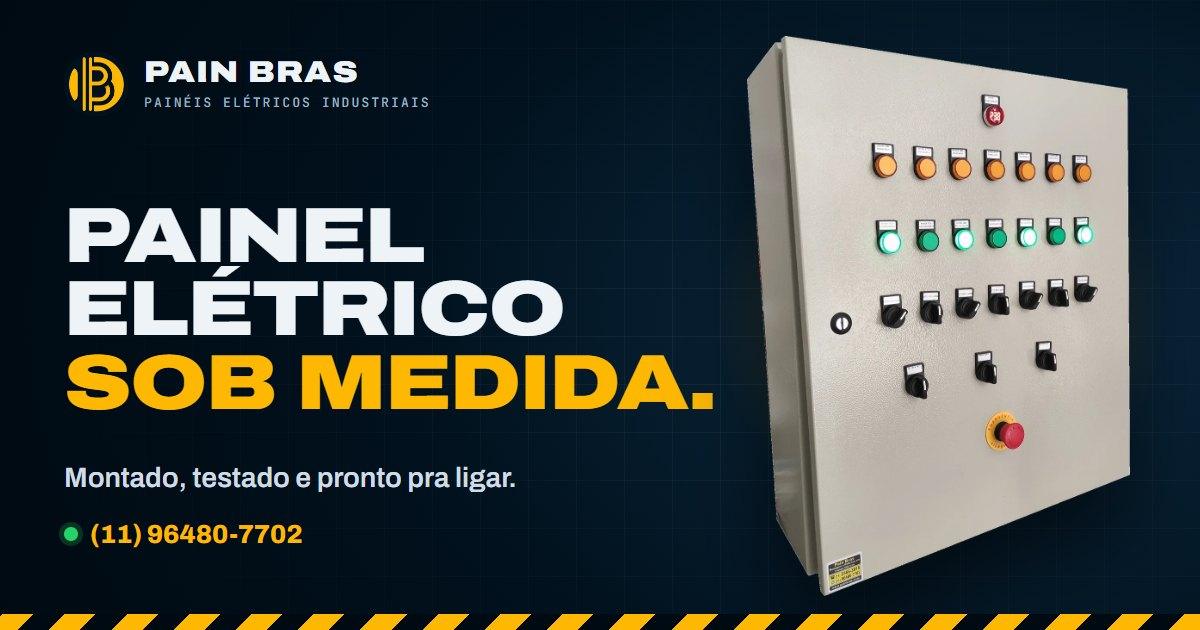
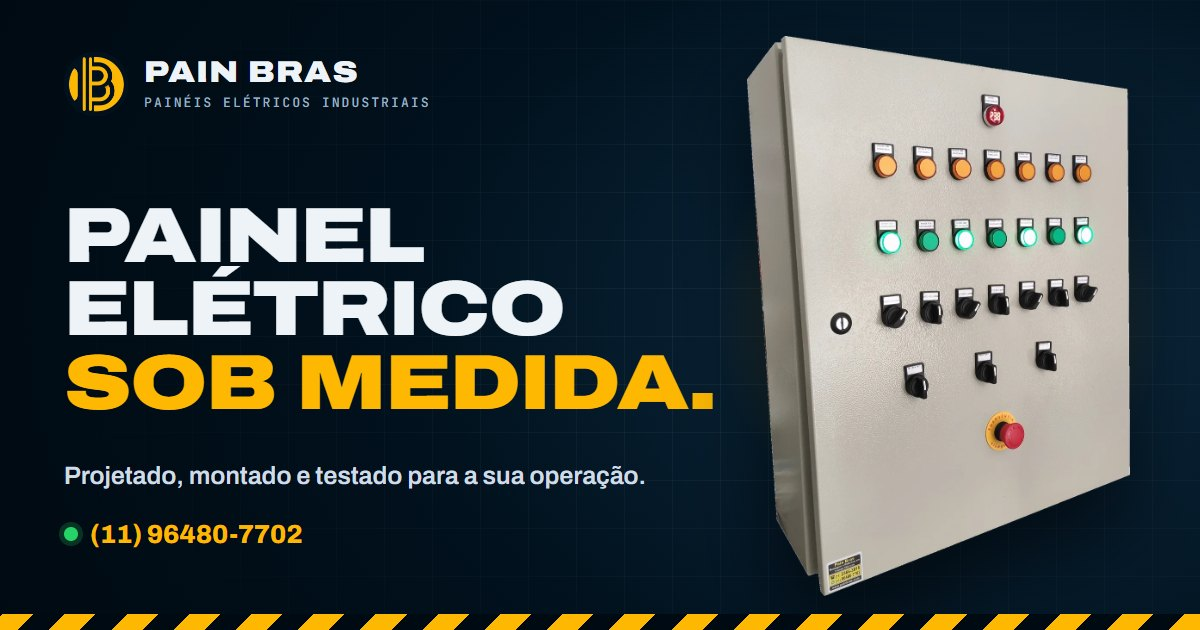
copy: textos em tom mais formal (B2B), a pedido do cliente
Reescreve titulos, descricoes, botoes e mensagens de WhatsApp.
Ajusta tamanho de botao e titulo no celular para os textos mais longos caberem.

Changed region(s): [[0.0308, 0.7238, 0.5242, 0.7841]]

diff --git a/index.html b/index.html
@@ -7,7 +7,7 @@
 <meta name="description" content="Pain Bras: montagem e reforma de painéis elétricos para indústria, condomínio, irrigação e sistemas de incêndio. Orçamento sem compromisso pelo WhatsApp.">
 <meta name="theme-color" content="#01111d">
 <meta property="og:title" content="Pain Bras | Painéis Elétricos Industriais">
-<meta property="og:description" content="Painel elétrico sob medida. Montado, testado e pronto pra ligar. Peça seu orçamento pelo WhatsApp.">
+<meta property="og:description" content="Painéis elétricos sob medida, projetados, montados e testados para a sua operação. Solicite um orçamento pelo WhatsApp.">
 <meta property="og:type" content="website">
 <meta property="og:image" content="https://painbras.vercel.app/assets/img/og.jpg">
 <meta property="og:image:width" content="1200">
@@ -91,12 +91,12 @@
         <span class="line"><span>elétrico</span></span>
         <span class="line"><span class="y">sob medida.</span></span>
       </h1>
-      <p class="hero__sub" data-reveal style="--d:.35s">Para fábrica, condomínio e irrigação.<br><b>Montado, testado e pronto pra ligar.</b></p>
+      <p class="hero__sub" data-reveal style="--d:.35s">Para indústrias, condomínios e irrigação.<br><b>Projetado, montado e testado para a sua operação.</b></p>
 
       <div class="hero__cta" data-reveal style="--d:.45s">
         <a class="btn btn--main magnetic" data-wa href="https://wa.me/5511964807702">
           <span class="btn__wa"><svg class="ico"><use href="#i-wa"/></svg></span>
-          <span>Pedir orçamento</span>
+          <span>Solicitar orçamento</span>
           <svg class="ico ico--arrow"><use href="#i-arrow"/></svg>
         </a>
         <a class="btn btn--ghost" href="assets/catalogo-painbras.pdf" target="_blank" rel="noopener">
@@ -125,8 +125,8 @@
 </section>
 
 <!-- ============ MARCAS ============ -->
-<section class="brands" aria-label="Marcas que usamos">
-  <p class="brands__label">Só usamos <b>marca boa</b></p>
+<section class="brands" aria-label="Marcas com que trabalhamos">
+  <p class="brands__label">Trabalhamos com as <b>melhores marcas nacionais</b></p>
   <div class="marquee">
     <div class="marquee__track">
       <img src="assets/img/marcas/weg.png" alt="WEG" height="46" loading="lazy">
@@ -145,8 +145,8 @@
   <div class="wrap">
     <header class="sec__head" data-reveal>
       <p class="tag">01 — Painéis</p>
-      <h2>Qual painel <span class="y">você precisa?</span></h2>
-      <p class="sec__sub">Toque no nome e veja.</p>
+      <h2>Soluções em <span class="y">painéis elétricos.</span></h2>
+      <p class="sec__sub">Selecione um modelo para ver os detalhes.</p>
     </header>
 
     <div class="pick" data-reveal>
@@ -165,9 +165,9 @@
           <div class="pane__txt">
             <p class="pane__kicker">Motores acima de 7,5 CV</p>
             <h3>Partida Estrela-Triângulo</h3>
-            <p class="pane__lead">Liga motor grande <b>sem dar tranco</b> na rede.</p>
+            <p class="pane__lead">Reduz a corrente de partida de motores trifásicos, <b>preservando a rede elétrica</b>.</p>
             <ul class="pills"><li>Compressor</li><li>Moinho</li><li>Aglutinador</li><li>Bomba de irrigação</li></ul>
-            <a class="btn btn--main" data-wa="Olá! Vim pelo site e quero orçamento de um Painel de Partida Estrela-Triângulo." href="https://wa.me/5511964807702"><span class="btn__wa"><svg class="ico"><use href="#i-wa"/></svg></span><span>Quero esse</span><svg class="ico ico--arrow"><use href="#i-arrow"/></svg></a>
+            <a class="btn btn--main" data-wa="Olá! Vim pelo site e gostaria de um orçamento de Painel de Partida Estrela-Triângulo." href="https://wa.me/5511964807702"><span class="btn__wa"><svg class="ico"><use href="#i-wa"/></svg></span><span>Solicitar orçamento</span><svg class="ico ico--arrow"><use href="#i-arrow"/></svg></a>
           </div>
         </article>
 
@@ -176,9 +176,9 @@
           <div class="pane__txt">
             <p class="pane__kicker">Partida suave</p>
             <h3>Inversor de Frequência</h3>
-            <p class="pane__lead">Você <b>controla a velocidade</b> do motor e gasta menos energia.</p>
+            <p class="pane__lead"><b>Controle de velocidade e torque</b> do motor, com operação mais eficiente e econômica.</p>
             <ul class="pills"><li>Esteira</li><li>Ventilador</li><li>Exaustor</li><li>Picotador</li></ul>
-            <a class="btn btn--main" data-wa="Olá! Vim pelo site e quero orçamento de um Painel com Inversor de Frequência." href="https://wa.me/5511964807702"><span class="btn__wa"><svg class="ico"><use href="#i-wa"/></svg></span><span>Quero esse</span><svg class="ico ico--arrow"><use href="#i-arrow"/></svg></a>
+            <a class="btn btn--main" data-wa="Olá! Vim pelo site e gostaria de um orçamento de Painel com Inversor de Frequência." href="https://wa.me/5511964807702"><span class="btn__wa"><svg class="ico"><use href="#i-wa"/></svg></span><span>Solicitar orçamento</span><svg class="ico ico--arrow"><use href="#i-arrow"/></svg></a>
           </div>
         </article>
 
@@ -187,9 +187,9 @@
           <div class="pane__txt">
             <p class="pane__kicker">Revezamento automático</p>
             <h3>Bombas de Água</h3>
-            <p class="pane__lead">As bombas <b>revezam sozinhas</b> e o motor fica protegido.</p>
+            <p class="pane__lead">Alternância automática entre as bombas e <b>proteção completa das motobombas</b>.</p>
             <ul class="pills"><li>Condomínio</li><li>Poço artesiano</li><li>Cisterna</li><li>Irrigação</li></ul>
-            <a class="btn btn--main" data-wa="Olá! Vim pelo site e quero orçamento de um Painel para Bombas de Água." href="https://wa.me/5511964807702"><span class="btn__wa"><svg class="ico"><use href="#i-wa"/></svg></span><span>Quero esse</span><svg class="ico ico--arrow"><use href="#i-arrow"/></svg></a>
+            <a class="btn btn--main" data-wa="Olá! Vim pelo site e gostaria de um orçamento de Painel para Bombas de Água." href="https://wa.me/5511964807702"><span class="btn__wa"><svg class="ico"><use href="#i-wa"/></svg></span><span>Solicitar orçamento</span><svg class="ico ico--arrow"><use href="#i-arrow"/></svg></a>
           </div>
         </article>
 
@@ -198,9 +198,9 @@
           <div class="pane__txt">
             <p class="pane__kicker">Norma NBR 13714</p>
             <h3>Sistema de Incêndio</h3>
-            <p class="pane__lead">Dentro da norma exigida pelo <b>Corpo de Bombeiros</b>.</p>
-            <ul class="pills"><li>Bomba jockey</li><li>Automático e manual</li><li>Adequação de sistema antigo</li></ul>
-            <a class="btn btn--main" data-wa="Olá! Vim pelo site e quero orçamento de um Painel para Sistema de Incêndio." href="https://wa.me/5511964807702"><span class="btn__wa"><svg class="ico"><use href="#i-wa"/></svg></span><span>Quero esse</span><svg class="ico ico--arrow"><use href="#i-arrow"/></svg></a>
+            <p class="pane__lead">Painel de comando exclusivo, em conformidade com as exigências do <b>Corpo de Bombeiros</b>.</p>
+            <ul class="pills"><li>Bomba jockey</li><li>Automático e manual</li><li>Adequação de sistemas antigos</li></ul>
+            <a class="btn btn--main" data-wa="Olá! Vim pelo site e gostaria de um orçamento de Painel para Sistema de Incêndio." href="https://wa.me/5511964807702"><span class="btn__wa"><svg class="ico"><use href="#i-wa"/></svg></span><span>Solicitar orçamento</span><svg class="ico ico--arrow"><use href="#i-arrow"/></svg></a>
           </div>
         </article>
 
@@ -209,26 +209,26 @@
           <div class="pane__txt">
             <p class="pane__kicker">Com ou sem CLP</p>
             <h3>Elevador de Carga</h3>
-            <p class="pane__lead">Sua carga sobe e desce <b>com segurança</b>, sem parar a operação.</p>
-            <ul class="pills"><li>Alarmes</li><li>Botão de emergência</li><li>Instalação rápida</li></ul>
-            <a class="btn btn--main" data-wa="Olá! Vim pelo site e quero orçamento de um Painel para Elevador de Carga." href="https://wa.me/5511964807702"><span class="btn__wa"><svg class="ico"><use href="#i-wa"/></svg></span><span>Quero esse</span><svg class="ico ico--arrow"><use href="#i-arrow"/></svg></a>
+            <p class="pane__lead">Transporte de cargas <b>seguro e sem interrupções</b>, com controle preciso.</p>
+            <ul class="pills"><li>Alarmes</li><li>Sistema de emergência</li><li>Instalação rápida</li></ul>
+            <a class="btn btn--main" data-wa="Olá! Vim pelo site e gostaria de um orçamento de Painel para Elevador de Carga." href="https://wa.me/5511964807702"><span class="btn__wa"><svg class="ico"><use href="#i-wa"/></svg></span><span>Solicitar orçamento</span><svg class="ico ico--arrow"><use href="#i-arrow"/></svg></a>
           </div>
         </article>
 
         <article class="pane" role="tabpanel">
           <div class="pane__img"><img src="assets/img/painel-distribuicao.webp" width="552" height="710" alt="Quadro de distribuição de energia" loading="lazy"></div>
           <div class="pane__txt">
-            <p class="pane__kicker">Energia organizada</p>
+            <p class="pane__kicker">Segurança e confiabilidade</p>
             <h3>Quadro de Distribuição</h3>
-            <p class="pane__lead">Tudo <b>no lugar e seguro</b>, do galpão à casa.</p>
+            <p class="pane__lead">Distribuição de energia <b>segura e organizada</b> para toda a instalação elétrica.</p>
             <ul class="pills"><li>Indústria</li><li>Comércio</li><li>Residência</li></ul>
-            <a class="btn btn--main" data-wa="Olá! Vim pelo site e quero orçamento de um Quadro de Distribuição." href="https://wa.me/5511964807702"><span class="btn__wa"><svg class="ico"><use href="#i-wa"/></svg></span><span>Quero esse</span><svg class="ico ico--arrow"><use href="#i-arrow"/></svg></a>
+            <a class="btn btn--main" data-wa="Olá! Vim pelo site e gostaria de um orçamento de Quadro de Distribuição." href="https://wa.me/5511964807702"><span class="btn__wa"><svg class="ico"><use href="#i-wa"/></svg></span><span>Solicitar orçamento</span><svg class="ico ico--arrow"><use href="#i-arrow"/></svg></a>
           </div>
         </article>
       </div>
     </div>
 
-    <p class="panels__note" data-reveal>Não achou o seu? <a data-wa="Olá! Vim pelo site. Preciso de um painel diferente, posso explicar?" href="https://wa.me/5511964807702">A gente monta do jeito que você precisa <svg class="ico"><use href="#i-arrow"/></svg></a></p>
+    <p class="panels__note" data-reveal>Não encontrou o que procura? <a data-wa="Olá! Vim pelo site e preciso de um painel sob medida. Podemos conversar?" href="https://wa.me/5511964807702">Desenvolvemos projetos sob medida para a sua necessidade <svg class="ico"><use href="#i-arrow"/></svg></a></p>
   </div>
 </section>
 
@@ -237,7 +237,7 @@
   <div class="wrap">
     <header class="sec__head" data-reveal>
       <p class="tag">02 — Onde atuamos</p>
-      <h2>A gente conhece <span class="y">a sua máquina.</span></h2>
+      <h2>Atendemos o <span class="y">seu segmento.</span></h2>
     </header>
 
     <div class="segs" data-reveal>
@@ -246,7 +246,7 @@
         <h3>Plástico</h3>
         <div class="seg__more"><div>
           <ul><li>Extrusora</li><li>Aglutinador</li><li>Picotador</li><li>Partida de canhão</li></ul>
-          <a class="seg__go" data-wa="Olá! Vim pelo site. Preciso de painel para máquina do setor de Plástico." href="https://wa.me/5511964807702">Pedir orçamento <svg class="ico"><use href="#i-arrow"/></svg></a>
+          <a class="seg__go" data-wa="Olá! Vim pelo site e gostaria de um orçamento de painel para o setor de Plástico." href="https://wa.me/5511964807702">Solicitar orçamento <svg class="ico"><use href="#i-arrow"/></svg></a>
         </div></div>
       </article>
       <article class="seg" data-bg="assets/img/seg-borracha.jpg" tabindex="0">
@@ -254,7 +254,7 @@
         <h3>Borracha</h3>
         <div class="seg__more"><div>
           <ul><li>Misturador</li><li>Banbury</li><li>Aquecimento de prensa</li><li>Partida hidráulica</li></ul>
-          <a class="seg__go" data-wa="Olá! Vim pelo site. Preciso de painel para máquina do setor de Borracha." href="https://wa.me/5511964807702">Pedir orçamento <svg class="ico"><use href="#i-arrow"/></svg></a>
+          <a class="seg__go" data-wa="Olá! Vim pelo site e gostaria de um orçamento de painel para o setor de Borracha." href="https://wa.me/5511964807702">Solicitar orçamento <svg class="ico"><use href="#i-arrow"/></svg></a>
         </div></div>
       </article>
       <article class="seg" data-bg="assets/img/seg-irrigacao.jpg" tabindex="0">
@@ -262,7 +262,7 @@
         <h3>Irrigação</h3>
         <div class="seg__more"><div>
           <ul><li>Partida de motobomba</li><li>Acionamento manual</li><li>Acionamento automático</li></ul>
-          <a class="seg__go" data-wa="Olá! Vim pelo site. Preciso de painel para Irrigação." href="https://wa.me/5511964807702">Pedir orçamento <svg class="ico"><use href="#i-arrow"/></svg></a>
+          <a class="seg__go" data-wa="Olá! Vim pelo site e gostaria de um orçamento de painel para Irrigação." href="https://wa.me/5511964807702">Solicitar orçamento <svg class="ico"><use href="#i-arrow"/></svg></a>
         </div></div>
       </article>
       <article class="seg" data-bg="assets/img/seg-condominio.jpg" tabindex="0">
@@ -270,20 +270,20 @@
         <h3>Condomínio</h3>
         <div class="seg__more"><div>
           <ul><li>Bomba de recalque</li><li>Revezamento automático</li><li>Bomba jockey</li></ul>
-          <a class="seg__go" data-wa="Olá! Vim pelo site. Preciso de painel para Condomínio." href="https://wa.me/5511964807702">Pedir orçamento <svg class="ico"><use href="#i-arrow"/></svg></a>
+          <a class="seg__go" data-wa="Olá! Vim pelo site e gostaria de um orçamento de painel para Condomínio." href="https://wa.me/5511964807702">Solicitar orçamento <svg class="ico"><use href="#i-arrow"/></svg></a>
         </div></div>
       </article>
       <article class="seg" data-bg="assets/img/seg-incendio.jpg" tabindex="0">
         <div class="seg__top"><svg class="ico"><use href="#i-flame"/></svg><span class="seg__n">05</span></div>
         <h3>Incêndio</h3>
         <div class="seg__more"><div>
-          <ul><li>Bomba de combate a incêndio</li><li>Norma NBR 13714</li><li>Reforma de sistema antigo</li></ul>
-          <a class="seg__go" data-wa="Olá! Vim pelo site. Preciso de painel para Sistema de Incêndio." href="https://wa.me/5511964807702">Pedir orçamento <svg class="ico"><use href="#i-arrow"/></svg></a>
+          <ul><li>Bomba de combate a incêndio</li><li>Norma NBR 13714</li><li>Adequação de sistemas antigos</li></ul>
+          <a class="seg__go" data-wa="Olá! Vim pelo site e gostaria de um orçamento de painel para Sistema de Incêndio." href="https://wa.me/5511964807702">Solicitar orçamento <svg class="ico"><use href="#i-arrow"/></svg></a>
         </div></div>
       </article>
     </div>
 
-    <p class="segs__also" data-reveal>Também: <span>Elétrica industrial</span><span>Elétrica predial</span><span>Elétrica residencial</span><span>Automação industrial</span></p>
+    <p class="segs__also" data-reveal>Atuamos também em: <span>Elétrica industrial</span><span>Elétrica predial</span><span>Elétrica residencial</span><span>Automação industrial</span></p>
   </div>
 </section>
 
@@ -292,33 +292,33 @@
   <div class="wrap">
     <header class="sec__head" data-reveal>
       <p class="tag">03 — Como funciona</p>
-      <h2>Simples assim. <span class="y">3 passos.</span></h2>
+      <h2>Processo em <span class="y">3 etapas.</span></h2>
     </header>
 
     <ol class="steps">
       <li class="step spot" data-reveal style="--d:0s">
         <span class="step__n">1</span>
         <svg class="ico"><use href="#i-chat"/></svg>
-        <h3>Chama no WhatsApp</h3>
-        <p>Conta o que você precisa. Pode mandar foto ou áudio.</p>
+        <h3>Contato pelo WhatsApp</h3>
+        <p>Descreva a sua necessidade. Fotos do equipamento ajudam na análise.</p>
       </li>
       <li class="step spot" data-reveal style="--d:.12s">
         <span class="step__n">2</span>
         <svg class="ico"><use href="#i-bolt"/></svg>
-        <h3>A gente projeta</h3>
-        <p>Painel feito pra sua necessidade, com solução econômica.</p>
+        <h3>Projeto sob medida</h3>
+        <p>Desenvolvemos o painel conforme a sua necessidade, com solução econômica.</p>
       </li>
       <li class="step spot" data-reveal style="--d:.24s">
         <span class="step__n">3</span>
         <svg class="ico"><use href="#i-shield"/></svg>
-        <h3>Montado e testado</h3>
-        <p>Bem estruturado e aprovado em testes rígidos de qualidade.</p>
+        <h3>Montagem e testes</h3>
+        <p>Painéis bem estruturados e submetidos a rígidos testes de qualidade.</p>
       </li>
     </ol>
 
     <blockquote class="social" data-reveal>
       <span class="social__heart" aria-hidden="true">♥</span>
-      <p>Quando você compra da Pain Bras, ajuda uma criança em situação de vulnerabilidade social a ter esperança de um futuro melhor.</p>
+      <p>Ao comprar da Pain Bras, você contribui para que uma criança em situação de vulnerabilidade social tenha a esperança de um futuro melhor.</p>
     </blockquote>
   </div>
 </section>
@@ -327,12 +327,12 @@
 <section class="cta" id="contato">
   <div class="cta__band">
     <div class="wrap cta__in" data-reveal>
-      <h2>Bora montar<br>seu painel?</h2>
+      <h2>Solicite seu<br>orçamento.</h2>
       <div class="cta__side">
-        <p>Orçamento sem compromisso.<br>Resposta direto no WhatsApp.</p>
+        <p>Orçamento sem compromisso.<br>Atendimento direto pelo WhatsApp.</p>
         <a class="btn btn--dark magnetic" data-wa href="https://wa.me/5511964807702">
           <span class="btn__wa"><svg class="ico"><use href="#i-wa"/></svg></span>
-          <span>Chamar agora</span>
+          <span>Entrar em contato</span>
           <svg class="ico ico--arrow"><use href="#i-arrow"/></svg>
         </a>
       </div>
@@ -358,7 +358,7 @@
 </footer>
 
 <a class="fab" data-wa href="https://wa.me/5511964807702" aria-label="Falar no WhatsApp"><svg class="ico"><use href="#i-wa"/></svg></a>
-<a class="bar" data-wa href="https://wa.me/5511964807702"><svg class="ico"><use href="#i-wa"/></svg><span>Pedir orçamento no WhatsApp</span></a>
+<a class="bar" data-wa href="https://wa.me/5511964807702"><svg class="ico"><use href="#i-wa"/></svg><span>Solicitar orçamento no WhatsApp</span></a>
 
 <script src="assets/js/main.js" defer></script>
 </body>

diff --git a/assets/css/style.css b/assets/css/style.css
@@ -325,7 +325,8 @@ h2{font-weight:900;font-stretch:120%;text-transform:uppercase;font-size:clamp(1.
   .pane__img img{max-height:220px}
   .pane__lead{font-size:1.08rem;margin-top:10px}
   .pills{margin:16px 0 20px}
-  .pane .btn{width:100%}
+  .pane__txt{min-width:0}
+  .pane .btn{width:100%;font-size:.98rem;gap:9px;padding-right:16px}
 
   .segs{flex-direction:column;height:auto;gap:8px}
   .seg{flex:none;padding:18px 18px 18px 84px;min-height:76px;justify-content:center;border-radius:18px}
@@ -351,6 +352,7 @@ h2{font-weight:900;font-stretch:120%;text-transform:uppercase;font-size:clamp(1.
   .social{flex-direction:column;text-align:center;margin-top:30px;gap:12px;padding:20px}
 
   .cta__in{flex-direction:column;align-items:flex-start;gap:22px}
+  .cta h2{font-size:clamp(1.9rem,9.6vw,2.7rem)}
   .cta__side,.cta__side .btn{width:100%}
   .contacts{grid-template-columns:1fr;gap:8px;padding:28px 0 36px}
   .contact,.contact--wide{display:grid;grid-template-columns:auto 1fr;column-gap:16px;align-items:center;padding:14px 18px;border-radius:16px}
@@ -363,6 +365,7 @@ h2{font-weight:900;font-stretch:120%;text-transform:uppercase;font-size:clamp(1.
   .bar.is-on{transform:none}
 }
 @media (max-width:420px){
+  .pane{padding:20px 16px 22px}
   .header__in .btn span{display:none}
   .header__in .btn{width:44px;padding:0;font-size:1.2rem}
 }

diff --git a/assets/js/main.js b/assets/js/main.js
@@ -1,6 +1,6 @@
 (() => {
   const WA = '5511964807702';
-  const WA_MSG = 'Olá! Vim pelo site e quero um orçamento de painel elétrico.';
+  const WA_MSG = 'Olá! Vim pelo site e gostaria de um orçamento de painel elétrico.';
   const $ = (s, el = document) => el.querySelector(s);
   const $$ = (s, el = document) => [...el.querySelectorAll(s)];
   const reduce = matchMedia('(prefers-reduced-motion: reduce)').matches;
